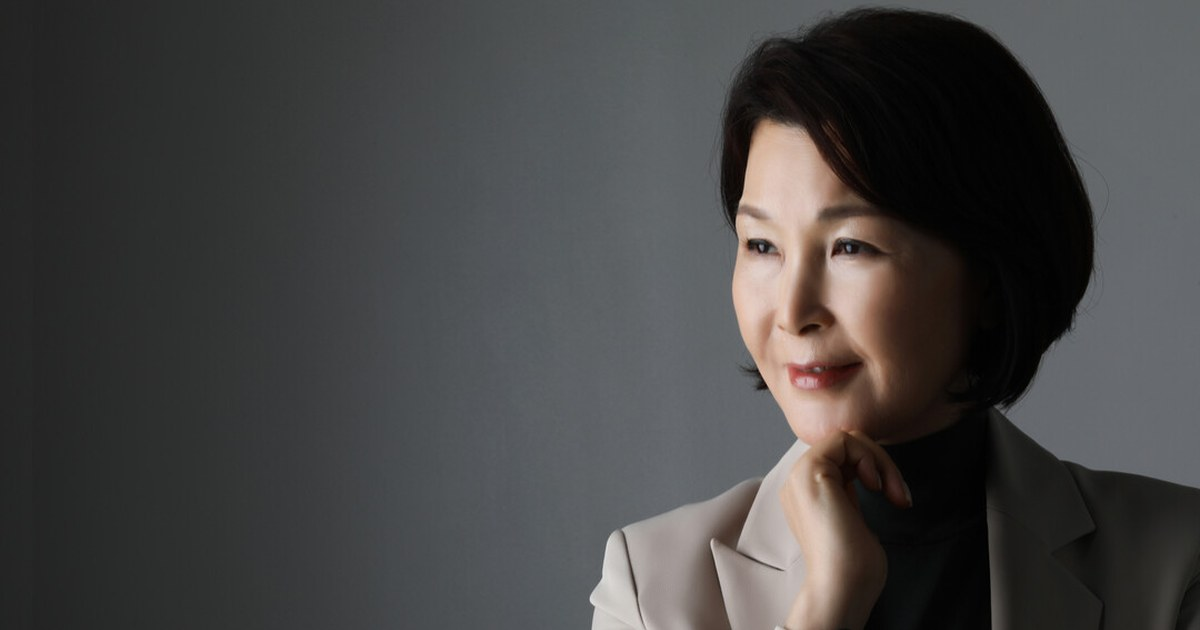
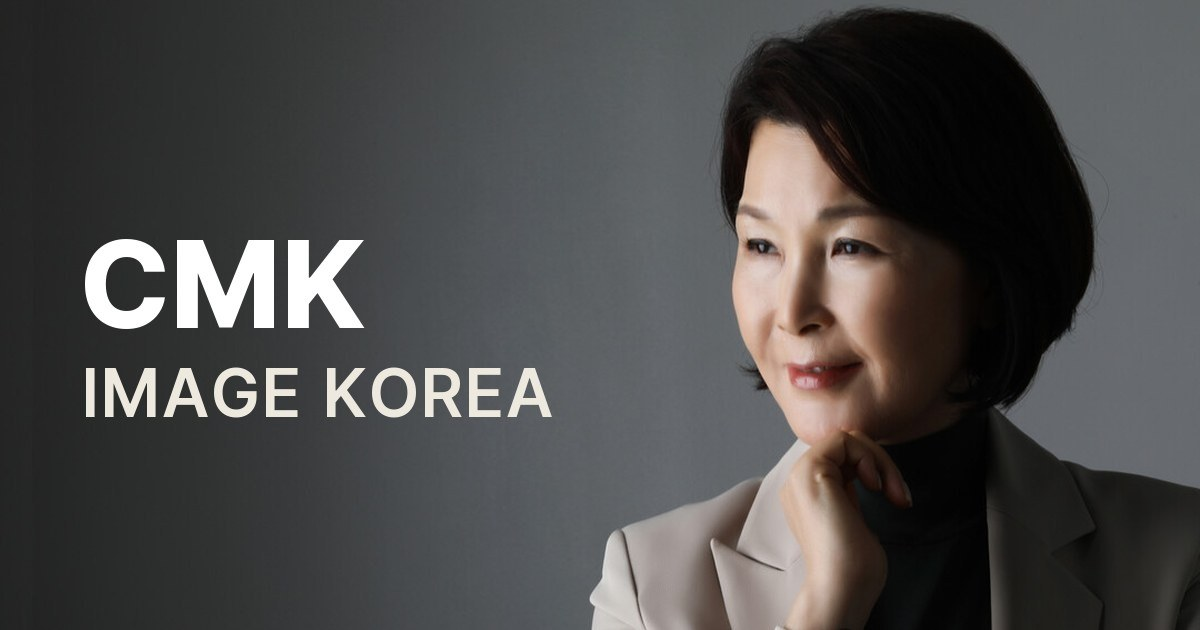
OG 이미지 교체(CMK IMAGE KOREA 락업, v3) + 히어로 카피 국문화(대한민국 이미지 컨설팅의 기준 / Creative Expert Group 자긍심)

Changed region(s): [[0.0617, 0.3619, 0.3083, 0.5429], [0.0617, 0.573, 0.4625, 0.6635]]

diff --git a/index.html b/index.html
@@ -6,16 +6,16 @@
 <title>CMK Image Korea · 리더의 이미지를 전략으로 설계합니다</title>
 <meta name="description" content="CMK Image Korea는 20여 년간 기업·금융·공공기관 리더의 인상, 태도, 언어를 하나의 전략으로 설계해 온 이미지 컨설팅 그룹입니다.">
 <meta property="og:title" content="CMK Image Korea">
-<meta property="og:description" content="이미지는 외형이 아니라, 신뢰의 구조입니다.">
+<meta property="og:description" content="CMK 이미지코리아는 대한민국을 대표하는 이미지컨설턴트로서 Creative Expert Group의 자긍심을 이어갑니다.">
 <meta property="og:type" content="website">
 <meta property="og:url" content="https://vdirectors00-blip.github.io/cmk-imagekorea/">
-<meta property="og:image" content="https://vdirectors00-blip.github.io/cmk-imagekorea/assets/og-image.jpg?v=2">
+<meta property="og:image" content="https://vdirectors00-blip.github.io/cmk-imagekorea/assets/og-image.jpg?v=3">
 <meta property="og:image:width" content="1200">
 <meta property="og:image:height" content="630">
 <meta name="twitter:card" content="summary_large_image">
 <meta name="twitter:title" content="CMK Image Korea">
-<meta name="twitter:description" content="이미지는 외형이 아니라, 신뢰의 구조입니다.">
-<meta name="twitter:image" content="https://vdirectors00-blip.github.io/cmk-imagekorea/assets/og-image.jpg?v=2">
+<meta name="twitter:description" content="CMK 이미지코리아는 대한민국을 대표하는 이미지컨설턴트로서 Creative Expert Group의 자긍심을 이어갑니다.">
+<meta name="twitter:image" content="https://vdirectors00-blip.github.io/cmk-imagekorea/assets/og-image.jpg?v=3">
 <link rel="stylesheet" href="https://cdn.jsdelivr.net/gh/orioncactus/pretendard@v1.3.9/dist/web/static/pretendard.css">
 <style>
   * { box-sizing: border-box; }
@@ -101,8 +101,8 @@
     <div style="position:absolute;inset:0;z-index:2;background:linear-gradient(to top, rgba(8,6,4,.72) 0%, rgba(8,6,4,.14) 44%, rgba(8,6,4,.32) 100%);"></div>
     <div style="position:absolute;inset:0;z-index:4;display:flex;flex-direction:column;justify-content:flex-end;max-width:1500px;margin:0 auto;left:0;right:0;padding:0 clamp(20px,5vw,60px) clamp(58px,9vh,104px);color:#E5DDCB;">
       <div style="font-size:12px;font-weight:500;letter-spacing:.2em;color:rgba(244,241,234,.75);margin-bottom:26px;">CMK IMAGE KOREA&nbsp;&nbsp;·&nbsp;&nbsp;SINCE 2008</div>
-      <h1 style="font-weight:600;font-size:clamp(42px,6.6vw,100px);line-height:1.02;letter-spacing:-0.035em;margin:0;max-width:15ch;">Leadership is seen<br>before it is spoken.</h1>
-      <p style="font-weight:500;font-size:clamp(16px,1.4vw,20px);line-height:1.7;color:rgba(244,241,234,.92);margin:30px 0 8px;">이미지는 외형이 아니라, 신뢰의 구조입니다.</p>
+      <h1 style="font-weight:600;font-size:clamp(38px,5.6vw,88px);line-height:1.14;letter-spacing:-0.01em;margin:0;max-width:18ch;">대한민국 이미지<br>컨설팅의 기준</h1>
+      <p style="font-weight:500;font-size:clamp(16px,1.4vw,20px);line-height:1.7;color:rgba(244,241,234,.92);margin:30px 0 8px;max-width:40ch;">CMK 이미지코리아는 대한민국을 대표하는 이미지컨설턴트로서 Creative Expert Group의 자긍심을 이어갑니다.</p>
       <p style="font-weight:300;font-size:clamp(13px,1vw,15px);line-height:1.85;color:rgba(244,241,234,.66);margin:0;max-width:44ch;">CMK는 20여 년간 기업·금융·공공기관 리더의 인상, 태도, 언어를 하나의 전략으로 설계해 왔습니다.</p>
     </div>
     <div style="position:absolute;z-index:4;right:clamp(20px,5vw,60px);bottom:clamp(58px,9vh,104px);display:flex;flex-direction:column;align-items:center;gap:11px;">